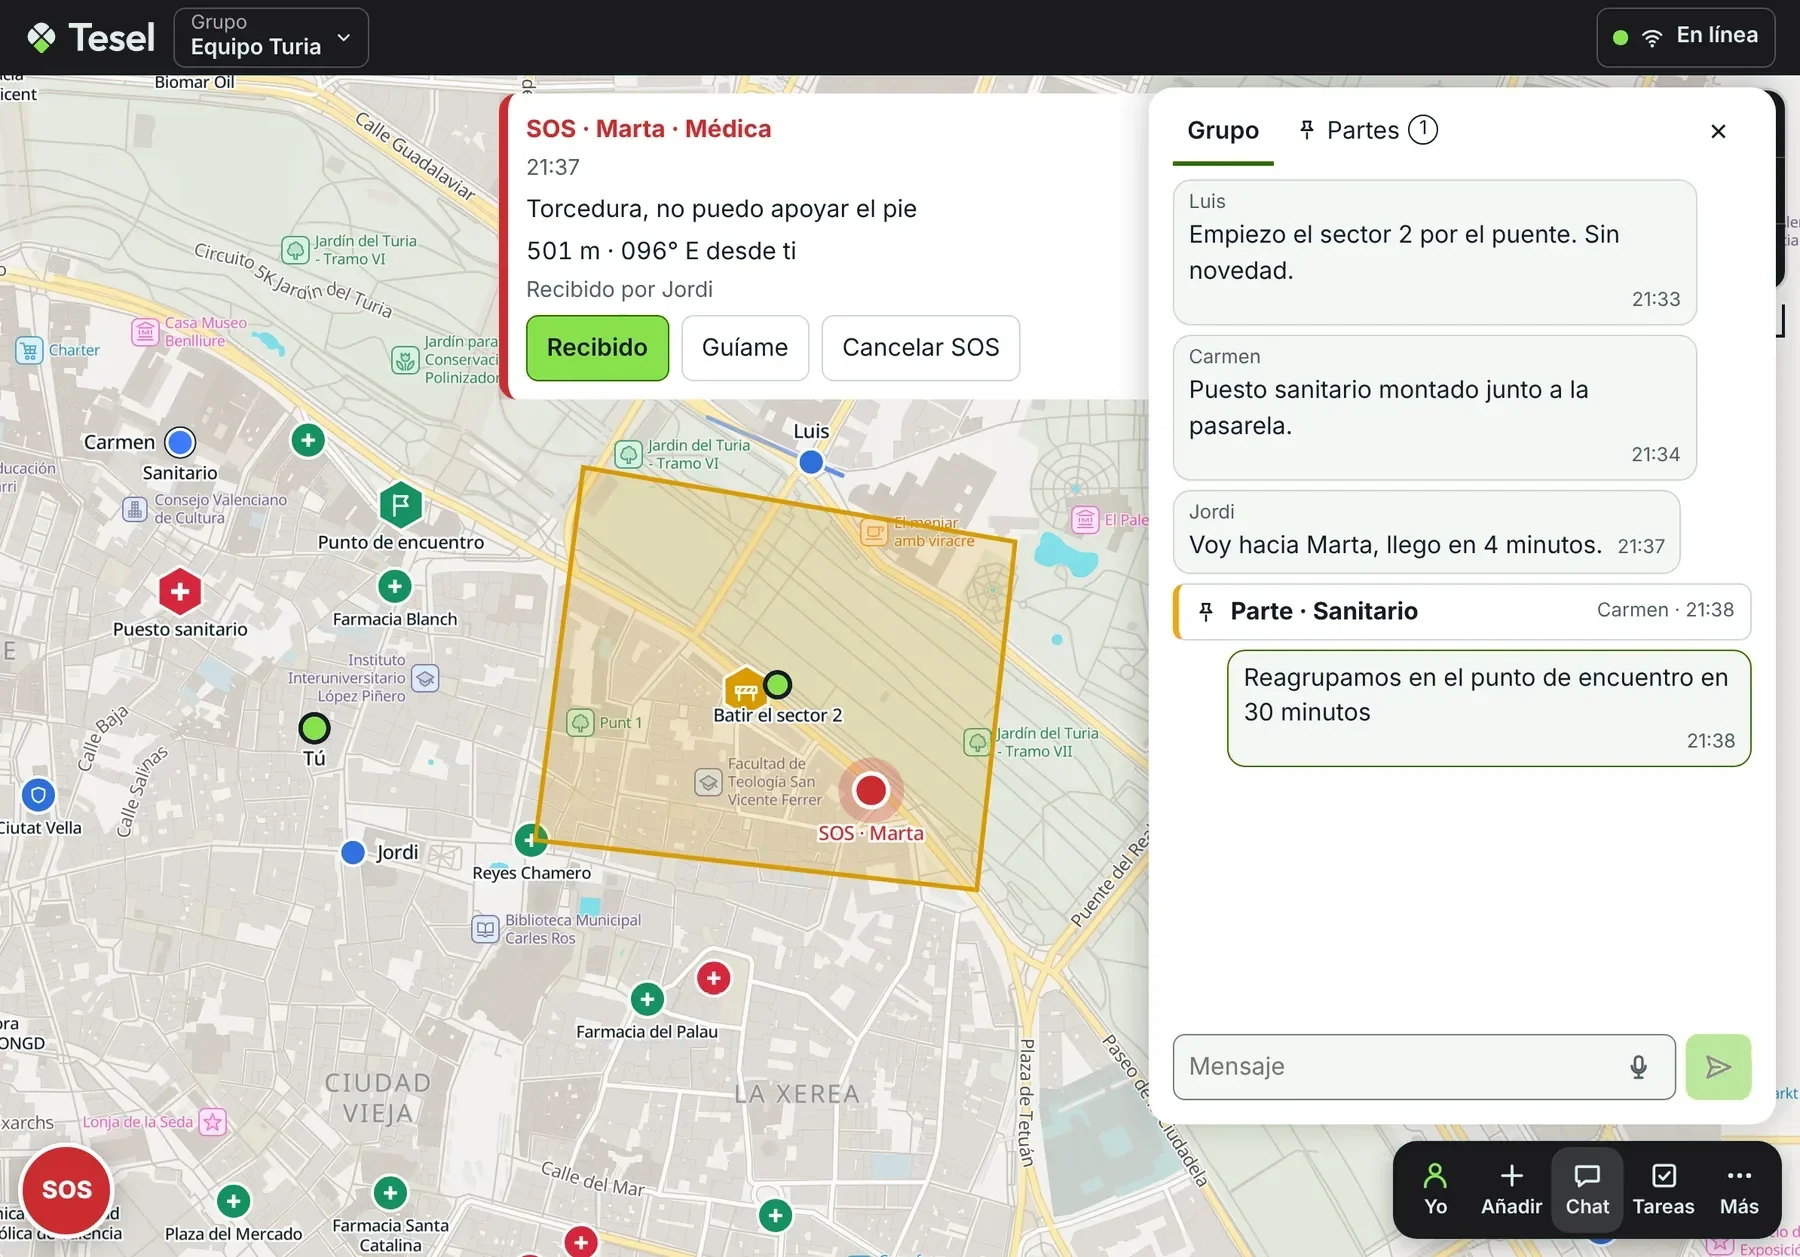
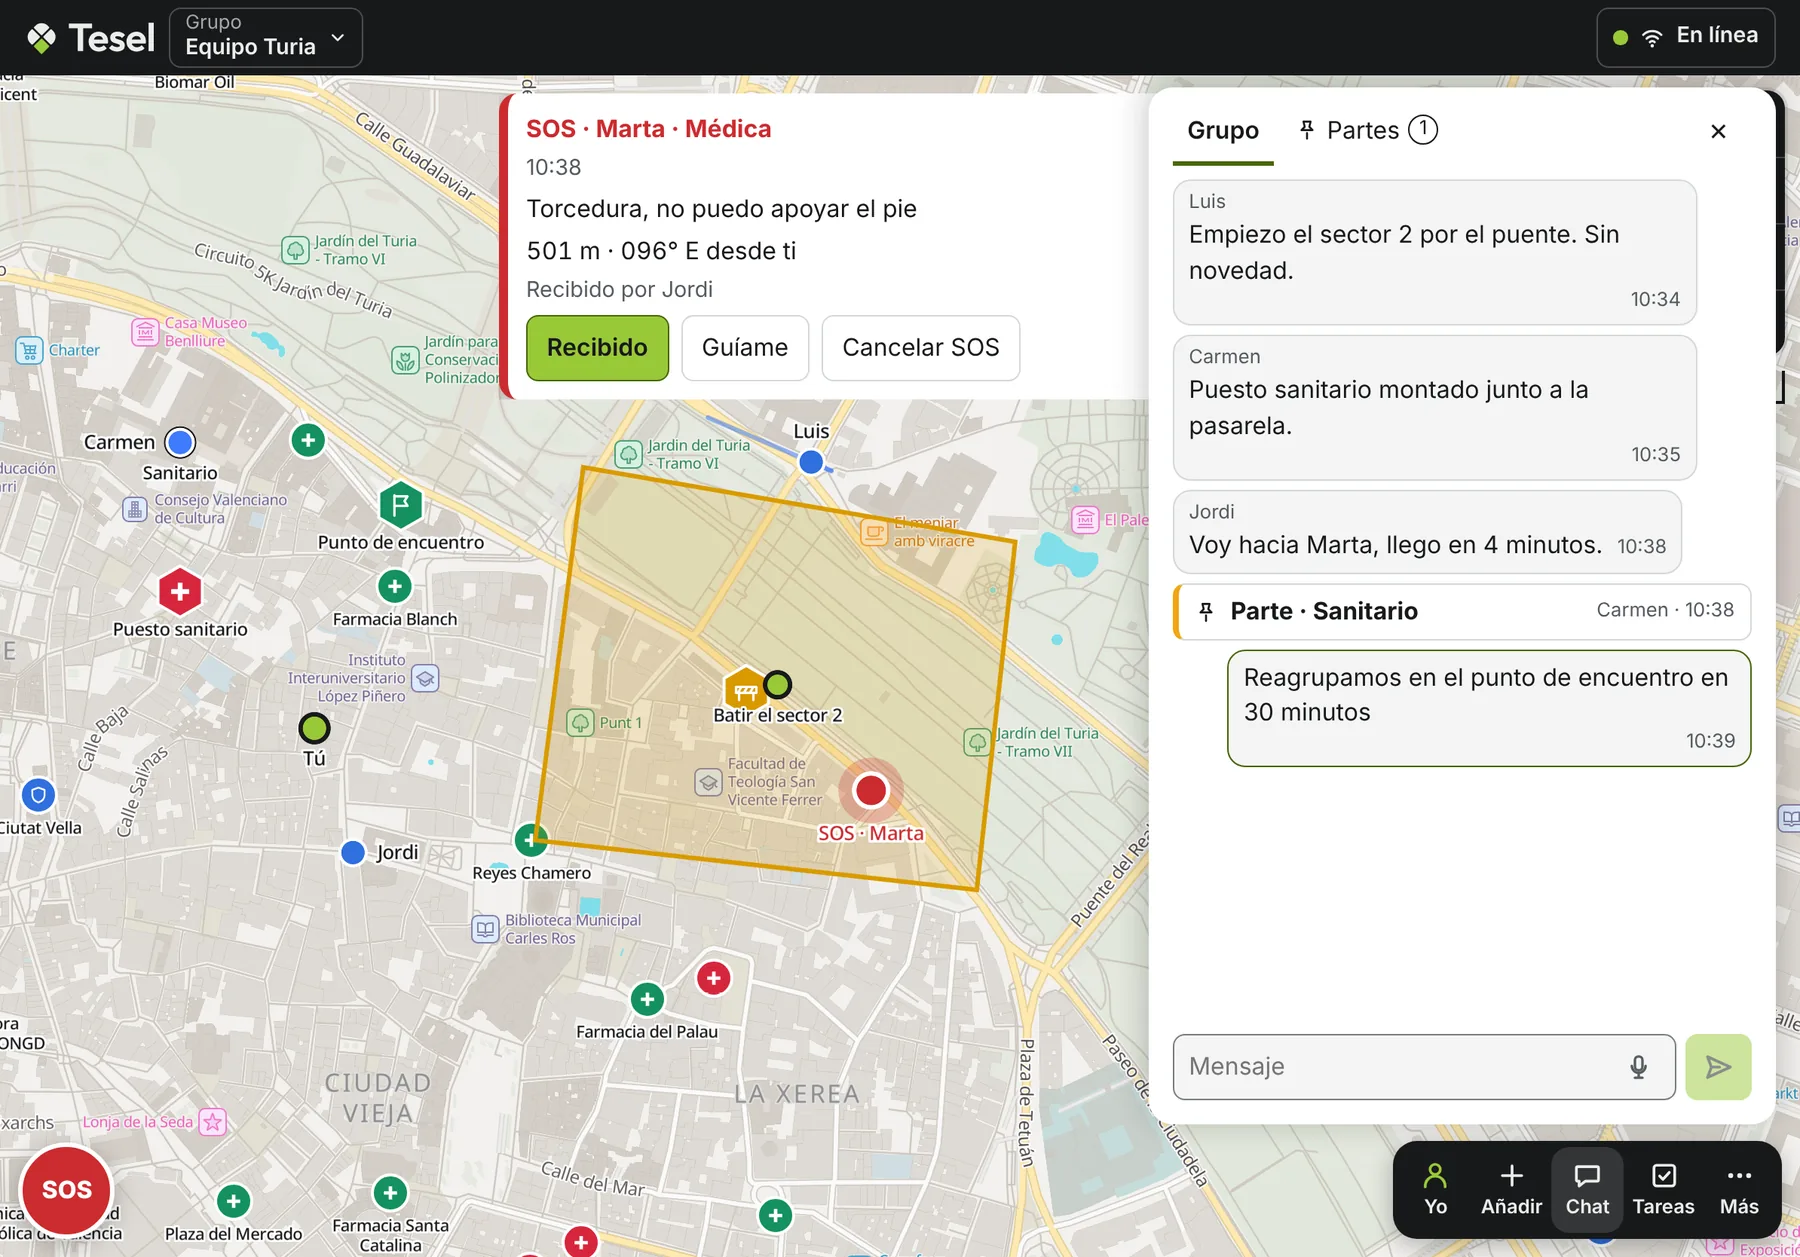
feat(brand): the green of the MeshTracker X1's box, and screenshots taken again
Signal lime becomes #99c938, measured on photographs of the box with
their white balance and exposure corrected against the table they lie
on; its deep shade #49660e and hover #88b52f follow. Logo, icons,
diagrams and pictures for shared links rebuilt from it.

The app's screenshots on the site are taken again with the simulator,
with tesel.eu's base map for the area of the views.

Claude-Session: https://claude.ai/code/session_01Hfm8dyPBUQ5nGwrtNpfWec

diff --git a/apps/site/en/index.html b/apps/site/en/index.html
@@ -9,9 +9,9 @@
       content="Tesel puts on one map, on every team member's phone, where everyone is, what is happening and who is taking care of what. If coverage is lost, it keeps working over its own network of nodes. Free, no sign-up, encrypted."
     />
     <meta name="theme-color" content="#18191b" />
-    <link rel="icon" href="../app/icons/favicon.svg?v=71f7e548" type="image/svg+xml" />
-    <link rel="icon" href="../app/icons/favicon-64.png?v=71f7e548" type="image/png" sizes="64x64" />
-    <link rel="apple-touch-icon" href="../app/icons/apple-touch-icon.png?v=71f7e548" />
+    <link rel="icon" href="../app/icons/favicon.svg?v=a2c33a70" type="image/svg+xml" />
+    <link rel="icon" href="../app/icons/favicon-64.png?v=a2c33a70" type="image/png" sizes="64x64" />
+    <link rel="apple-touch-icon" href="../app/icons/apple-touch-icon.png?v=a2c33a70" />
     <link rel="canonical" href="https://tesel.eu/en/" />
     <link rel="alternate" hreflang="es" href="https://tesel.eu/" />
     <link rel="alternate" hreflang="en" href="https://tesel.eu/en/" />

diff --git a/apps/site/index.html b/apps/site/index.html
@@ -11,9 +11,9 @@
     <!-- Proves to Google Search Console that the project owns the site (ADR-0094). -->
     <meta name="google-site-verification" content="fNH5dLDZrbQVVV_fkWFmdEVKhsDNSeNqKIOMZBFmgzA" />
     <meta name="theme-color" content="#18191b" />
-    <link rel="icon" href="app/icons/favicon.svg?v=71f7e548" type="image/svg+xml" />
-    <link rel="icon" href="app/icons/favicon-64.png?v=71f7e548" type="image/png" sizes="64x64" />
-    <link rel="apple-touch-icon" href="app/icons/apple-touch-icon.png?v=71f7e548" />
+    <link rel="icon" href="app/icons/favicon.svg?v=a2c33a70" type="image/svg+xml" />
+    <link rel="icon" href="app/icons/favicon-64.png?v=a2c33a70" type="image/png" sizes="64x64" />
+    <link rel="apple-touch-icon" href="app/icons/apple-touch-icon.png?v=a2c33a70" />
     <link rel="canonical" href="https://tesel.eu/" />
     <link rel="alternate" hreflang="es" href="https://tesel.eu/" />
     <link rel="alternate" hreflang="en" href="https://tesel.eu/en/" />

diff --git a/apps/web/index.html b/apps/web/index.html
@@ -8,9 +8,9 @@
       name="description"
       content="Consciencia situacional para equipos: posiciones, mensajes, tareas e incidentes en un mapa común y en tiempo real, con una red de respaldo propia cuando caen la telefonía o la electricidad."
     />
-    <link rel="icon" href="/icons/favicon.svg?v=71f7e548" type="image/svg+xml" />
-    <link rel="icon" href="/icons/favicon-64.png?v=71f7e548" type="image/png" sizes="64x64" />
-    <link rel="apple-touch-icon" href="/icons/apple-touch-icon.png?v=71f7e548" />
+    <link rel="icon" href="/icons/favicon.svg?v=a2c33a70" type="image/svg+xml" />
+    <link rel="icon" href="/icons/favicon-64.png?v=a2c33a70" type="image/png" sizes="64x64" />
+    <link rel="apple-touch-icon" href="/icons/apple-touch-icon.png?v=a2c33a70" />
     <title>Tesel</title>
   </head>
   <body>

diff --git a/apps/site/en/legal/index.html b/apps/site/en/legal/index.html
@@ -10,14 +10,14 @@
     />
     <meta name="robots" content="noindex" />
     <meta name="theme-color" content="#18191b" />
-    <link rel="icon" href="../../app/icons/favicon.svg?v=71f7e548" type="image/svg+xml" />
+    <link rel="icon" href="../../app/icons/favicon.svg?v=a2c33a70" type="image/svg+xml" />
     <link
       rel="icon"
-      href="../../app/icons/favicon-64.png?v=71f7e548"
+      href="../../app/icons/favicon-64.png?v=a2c33a70"
       type="image/png"
       sizes="64x64"
     />
-    <link rel="apple-touch-icon" href="../../app/icons/apple-touch-icon.png?v=71f7e548" />
+    <link rel="apple-touch-icon" href="../../app/icons/apple-touch-icon.png?v=a2c33a70" />
     <link rel="alternate" hreflang="es" href="../../legal/" />
     <link rel="stylesheet" href="../../styles.css" />
   </head>

diff --git a/apps/site/legal/index.html b/apps/site/legal/index.html
@@ -10,9 +10,9 @@
     />
     <meta name="robots" content="noindex" />
     <meta name="theme-color" content="#18191b" />
-    <link rel="icon" href="../app/icons/favicon.svg?v=71f7e548" type="image/svg+xml" />
-    <link rel="icon" href="../app/icons/favicon-64.png?v=71f7e548" type="image/png" sizes="64x64" />
-    <link rel="apple-touch-icon" href="../app/icons/apple-touch-icon.png?v=71f7e548" />
+    <link rel="icon" href="../app/icons/favicon.svg?v=a2c33a70" type="image/svg+xml" />
+    <link rel="icon" href="../app/icons/favicon-64.png?v=a2c33a70" type="image/png" sizes="64x64" />
+    <link rel="apple-touch-icon" href="../app/icons/apple-touch-icon.png?v=a2c33a70" />
     <link rel="alternate" hreflang="en" href="../en/legal/" />
     <link rel="stylesheet" href="../styles.css" />
   </head>

diff --git a/apps/site/styles.css b/apps/site/styles.css
@@ -44,9 +44,9 @@
   --paper-text: #1b1d1f;
   --paper-muted: #565b60;
   --rule: #c9cdca;
-  --signal: #8ce04c; /* the one action on each screen, with ink on it */
-  --signal-hover: #79cc3a;
-  --signal-deep: #356f0f; /* the same, as text and lines on paper */
+  --signal: #99c938; /* the one action on each screen, with ink on it */
+  --signal-hover: #88b52f;
+  --signal-deep: #49660e; /* the same, as text and lines on paper */
   --alert: #b3261e; /* only for what must not be missed: when to call 112 */
   --measure: 62ch;
   font-family:

diff --git a/apps/web/src/app.css b/apps/web/src/app.css
@@ -15,8 +15,8 @@
   /* Brand */
   --ink: #18191b;
   --pale: #ebedeb;
-  --signal: #8ce04c;
-  --signal-deep: #356f0f;
+  --signal: #99c938;
+  --signal-deep: #49660e;
 
   /* Surfaces and text. Content (panels, cards, menus, dialogs) sits on the surface; the chrome
      around the map (the top bar, the dock and the map's controls) is ink. */

diff --git a/tools/site-diagrams/build.py b/tools/site-diagrams/build.py
@@ -10,7 +10,7 @@ OUT = os.path.join(os.path.dirname(os.path.abspath(__file__)), '..', '..', 'apps
 INK_RAISED = '#1f2123'
 EDGE = '#2e3135'
 DOT = '#2c2f33'
-LIME = '#8ce04c'
+LIME = '#99c938'
 LINE = '#6c7177'
 DIM = '#3e4247'
 BODY = '#111213'

diff --git a/docs/decisions/0113-graphite-and-device-lime.md b/docs/decisions/0113-graphite-and-device-lime.md
@@ -5,12 +5,12 @@
 
 ## Context
 
-Tesel's colours were a navy ink, the night map, and a yellow-green lime (ADR-0020). The pocket node the site shows and the team carries, the Seeed SenseCAP MeshTracker X1, is a graphite card with a green button. The app on the phone and the node in the pocket look like two products. The three diagrams of the home page that show how a message travels were thin outlines on the dark background and read as sketches.
+Tesel's colours were a navy ink, the night map, and a yellow-green lime (ADR-0020). The pocket node the site shows and the team carries, the Seeed SenseCAP MeshTracker X1, is a graphite card with a green button, sold in a graphite box lined in the same green. The app on the phone and the node in the pocket look like two products. The three diagrams of the home page that show how a message travels were thin outlines on the dark background and read as sketches.
 
 ## Decision
 
 - **Graphite instead of navy.** The ink becomes a neutral graphite (`#18191b`), that of the node's case. Every surface derived from it loses its blue cast as well: in the app, the dark theme's background, surfaces, lines and grey text; on the site, its dark sections, lines and the shade over the photograph. Pale becomes `#ebedeb`.
-- **The lime of the node's button.** Signal lime becomes `#8ce04c`, the green of the node's button, greener than the old yellow-green. Its deep shade for text and lines on light backgrounds becomes `#356f0f`, at least 4.5:1 on every light surface of the app and the site. Ink on lime stays above 10:1.
+- **The lime of the node's box.** Signal lime becomes `#99c938`, the green of the MeshTracker X1's box and of its button as printed on it, measured on photographs of the box with their white balance and exposure corrected against the white table they lie on. It is a touch greener and deeper than the old lime. Its deep shade for text and lines on light backgrounds becomes `#49660e`, at least 4.5:1 on every light surface of the app and the site. Ink on lime is 9:1.
 - **Nothing else moves.** The colours that carry meaning (red for SOS and danger, amber for warnings, blue for members and information, the families of map symbols) and the base map keep theirs. Lime still marks only the one action on each screen and this device.
 - **Diagrams drawn as a series.** The three diagrams are panels of the dark section, drawn to one grid: phones with a map on their screen, the server as a cloud with a padlock (it passes on what it cannot read), and nodes drawn after the MeshTracker X1, with their lime button and the waves of what they send. Grey lines are the internet; dotted lime arcs are the mesh; a lime dot with a halo is the message on its way. The phone that bridges both glows. They are written by `tools/site-diagrams/build.py`, so a change to one is made to all three.
 - The values live where ADR-0020 put them: `brand/colors.json`, `apps/web/src/app.css` and `apps/site/styles.css`, kept in step by a test. The logo, the app's icons, the pictures for shared links and the screenshots of the app on the site follow from them.
@@ -18,5 +18,5 @@ Tesel's colours were a navy ink, the night map, and a yellow-green lime (ADR-002
 ## Consequences
 
 - The app, the site and the node read as one product.
-- The screenshots of the app on the site were turned into the new colours pixel by pixel, since their base map cannot be fetched from where they are made. They are taken again with the simulator at the next change of the app.
+- The screenshots of the app on the site were taken again with the simulator, so they show the app as it is.
 - Lime is now closer to the green of the safety and logistics symbols (`#14915f`). They stay apart in lightness and saturation, and lime appears only on this device and the one action.

diff --git a/CHANGELOG.md b/CHANGELOG.md
@@ -114,7 +114,7 @@ The first version: a shared map for a group, over the internet and over MeshCore
 - The server holds up under load and failure: the backlog goes to a joining device page by page, connections, new groups and pushes are limited per address and in all (`TESEL_PUSHES_PER_IP_PER_SECOND`, 100 by default), an envelope relayed to a group is encoded once for all its members, the weather outlines download is capped at 40 MB and not repeated after a restart that interrupted it, only hashed assets that exist are cached for good, a full disk refuses pushes instead of crashing, storage errors are answered rather than fatal, and `healthz` checks the database. Each server's store has an identity, so devices notice a server restored from a backup and send it their events again ([ADR-0045](docs/decisions/0045-server-keeps-every-distinct-envelope.md), [ADR-0046](docs/decisions/0046-store-identity.md)).
 - Third-party licences of everything the app ships, linked from the map's credits; the satellite mosaic's licence is named in its credit and a build can choose the CC BY mosaic ([ADR-0051](docs/decisions/0051-satellite-mosaic-licence.md)).
 - A new logo: a map pin made of four tiles, its point in signal lime, beside "Tesel" in Outfit SemiBold; in the app's header, its icons and favicons, the site, the pictures for shared links and new screenshots of the app on the site ([ADR-0095](docs/decisions/0095-pin-of-four-tiles-logo.md), replacing the interlocking tiles of [ADR-0091](docs/decisions/0091-interlocking-tiles-logo.md)).
-- Graphite and the lime of the node: the navy ink becomes graphite and signal lime the green of the MeshTracker X1's button, in the app, the site, the logo, the icons and the pictures for shared links; the site's three diagrams of how a message travels are redrawn as a series, with the node drawn after the MeshTracker X1 ([ADR-0113](docs/decisions/0113-graphite-and-device-lime.md)).
+- Graphite and the lime of the node: the navy ink becomes graphite and signal lime the green of the MeshTracker X1 and its box, in the app, the site, the logo, the icons and the pictures for shared links; the site's three diagrams of how a message travels are redrawn as a series, with the node drawn after the MeshTracker X1 ([ADR-0113](docs/decisions/0113-graphite-and-device-lime.md)).
 - Landing page at tesel.eu, in Spanish and English: situational awareness for teams, why Tesel, the radio as a second way when coverage fails (with schemes of the three ways a message travels), what the app does with new screenshots, who it is for, how to start, privacy and questions ([ADR-0088](docs/decisions/0088-home-page-radio-second-way.md)).
 - The home page can be found by search engines: a sitemap, `robots.txt`, canonical addresses and both languages declared, the site's name as structured data, and a picture for each language when a link is shared ([ADR-0094](docs/decisions/0094-found-by-search-engines.md)).
 - Legal notice and terms of use, in Spanish and English, linked from the site's footer ([ADR-0089](docs/decisions/0089-legal-notice.md)).

diff --git a/brand/README.md b/brand/README.md
@@ -15,6 +15,6 @@ The Tesel mark, wordmark and lockups ([ADR-0095](../docs/decisions/0095-pin-of-f
 
 The app icons are rendered from the mark with `pnpm --filter @tesel/web icons` (`apps/web/scripts/render-icons.js`), which also stamps the icons' version in the pages that link them.
 
-Colours, in `colors.json`, shared with the app and the site ([ADR-0020](../docs/decisions/0020-colour-and-symbols.md)): graphite ink `#18191b`, pale `#ebedeb`, signal lime `#8ce04c`, and its deep shade `#356f0f` for text and lines on light backgrounds. The tiles are pale on ink and ink on paper; the point is always signal lime. In the lockup the mark is 1.22 times the height of the l and centred on it, so the point hangs below the baseline like a descender, and 0.28 of its height away from the word. Keep clear space of at least one tile around it. Below 22 pixels tall, use the mark alone; it reads down to 16.
+Colours, in `colors.json`, shared with the app and the site ([ADR-0020](../docs/decisions/0020-colour-and-symbols.md)): graphite ink `#18191b`, pale `#ebedeb`, signal lime `#99c938`, and its deep shade `#49660e` for text and lines on light backgrounds. The tiles are pale on ink and ink on paper; the point is always signal lime. In the lockup the mark is 1.22 times the height of the l and centred on it, so the point hangs below the baseline like a descender, and 0.28 of its height away from the word. Keep clear space of at least one tile around it. Below 22 pixels tall, use the mark alone; it reads down to 16.
 
 Outfit is © 2021 The Outfit Project Authors, under the SIL Open Font License 1.1.

diff --git a/apps/site/img/README.md b/apps/site/img/README.md
@@ -7,7 +7,7 @@ by the simulator (`pnpm --filter @tesel/simulator screenshots`, see `tools/simul
 `tablet-chat.png` and `phone-map.png`, resized to 1800 and 640 pixels wide and saved as WebP and
 JPEG. The base map is Tesel's own (OpenStreetMap data, Protomaps). Map data © OpenStreetMap
 contributors, ODbL. When the logo changed (ADR-0095) only the header's logo was redrawn in them, at the size and
-place the app gives it; take them again with the simulator when the app itself changes. For the graphite and lime of ADR-0113, the app's old colours in them were turned into the new ones pixel by pixel (navy into graphite, the old yellow-green into the new lime); the map under them is unchanged.
+place the app gives it; take them again with the simulator when the app itself changes. For ADR-0113 they were taken again with the base map of tesel.eu, read in a browser for the area of the views and given to the simulator with `--tiles`.
 
 `net-coverage.svg`, `net-mesh.svg` and `net-bridge.svg`: the home page's diagrams of how a message travels (ADR-0088, redrawn in ADR-0113): with coverage, through the server; without it, from node to node over the mesh; and through a phone that bridges both. Each is a panel of the dark section with phones, the server and nodes drawn after the MeshTracker X1. No words, so both languages share them. Written by `tools/site-diagrams/build.py`; change them there.
 
